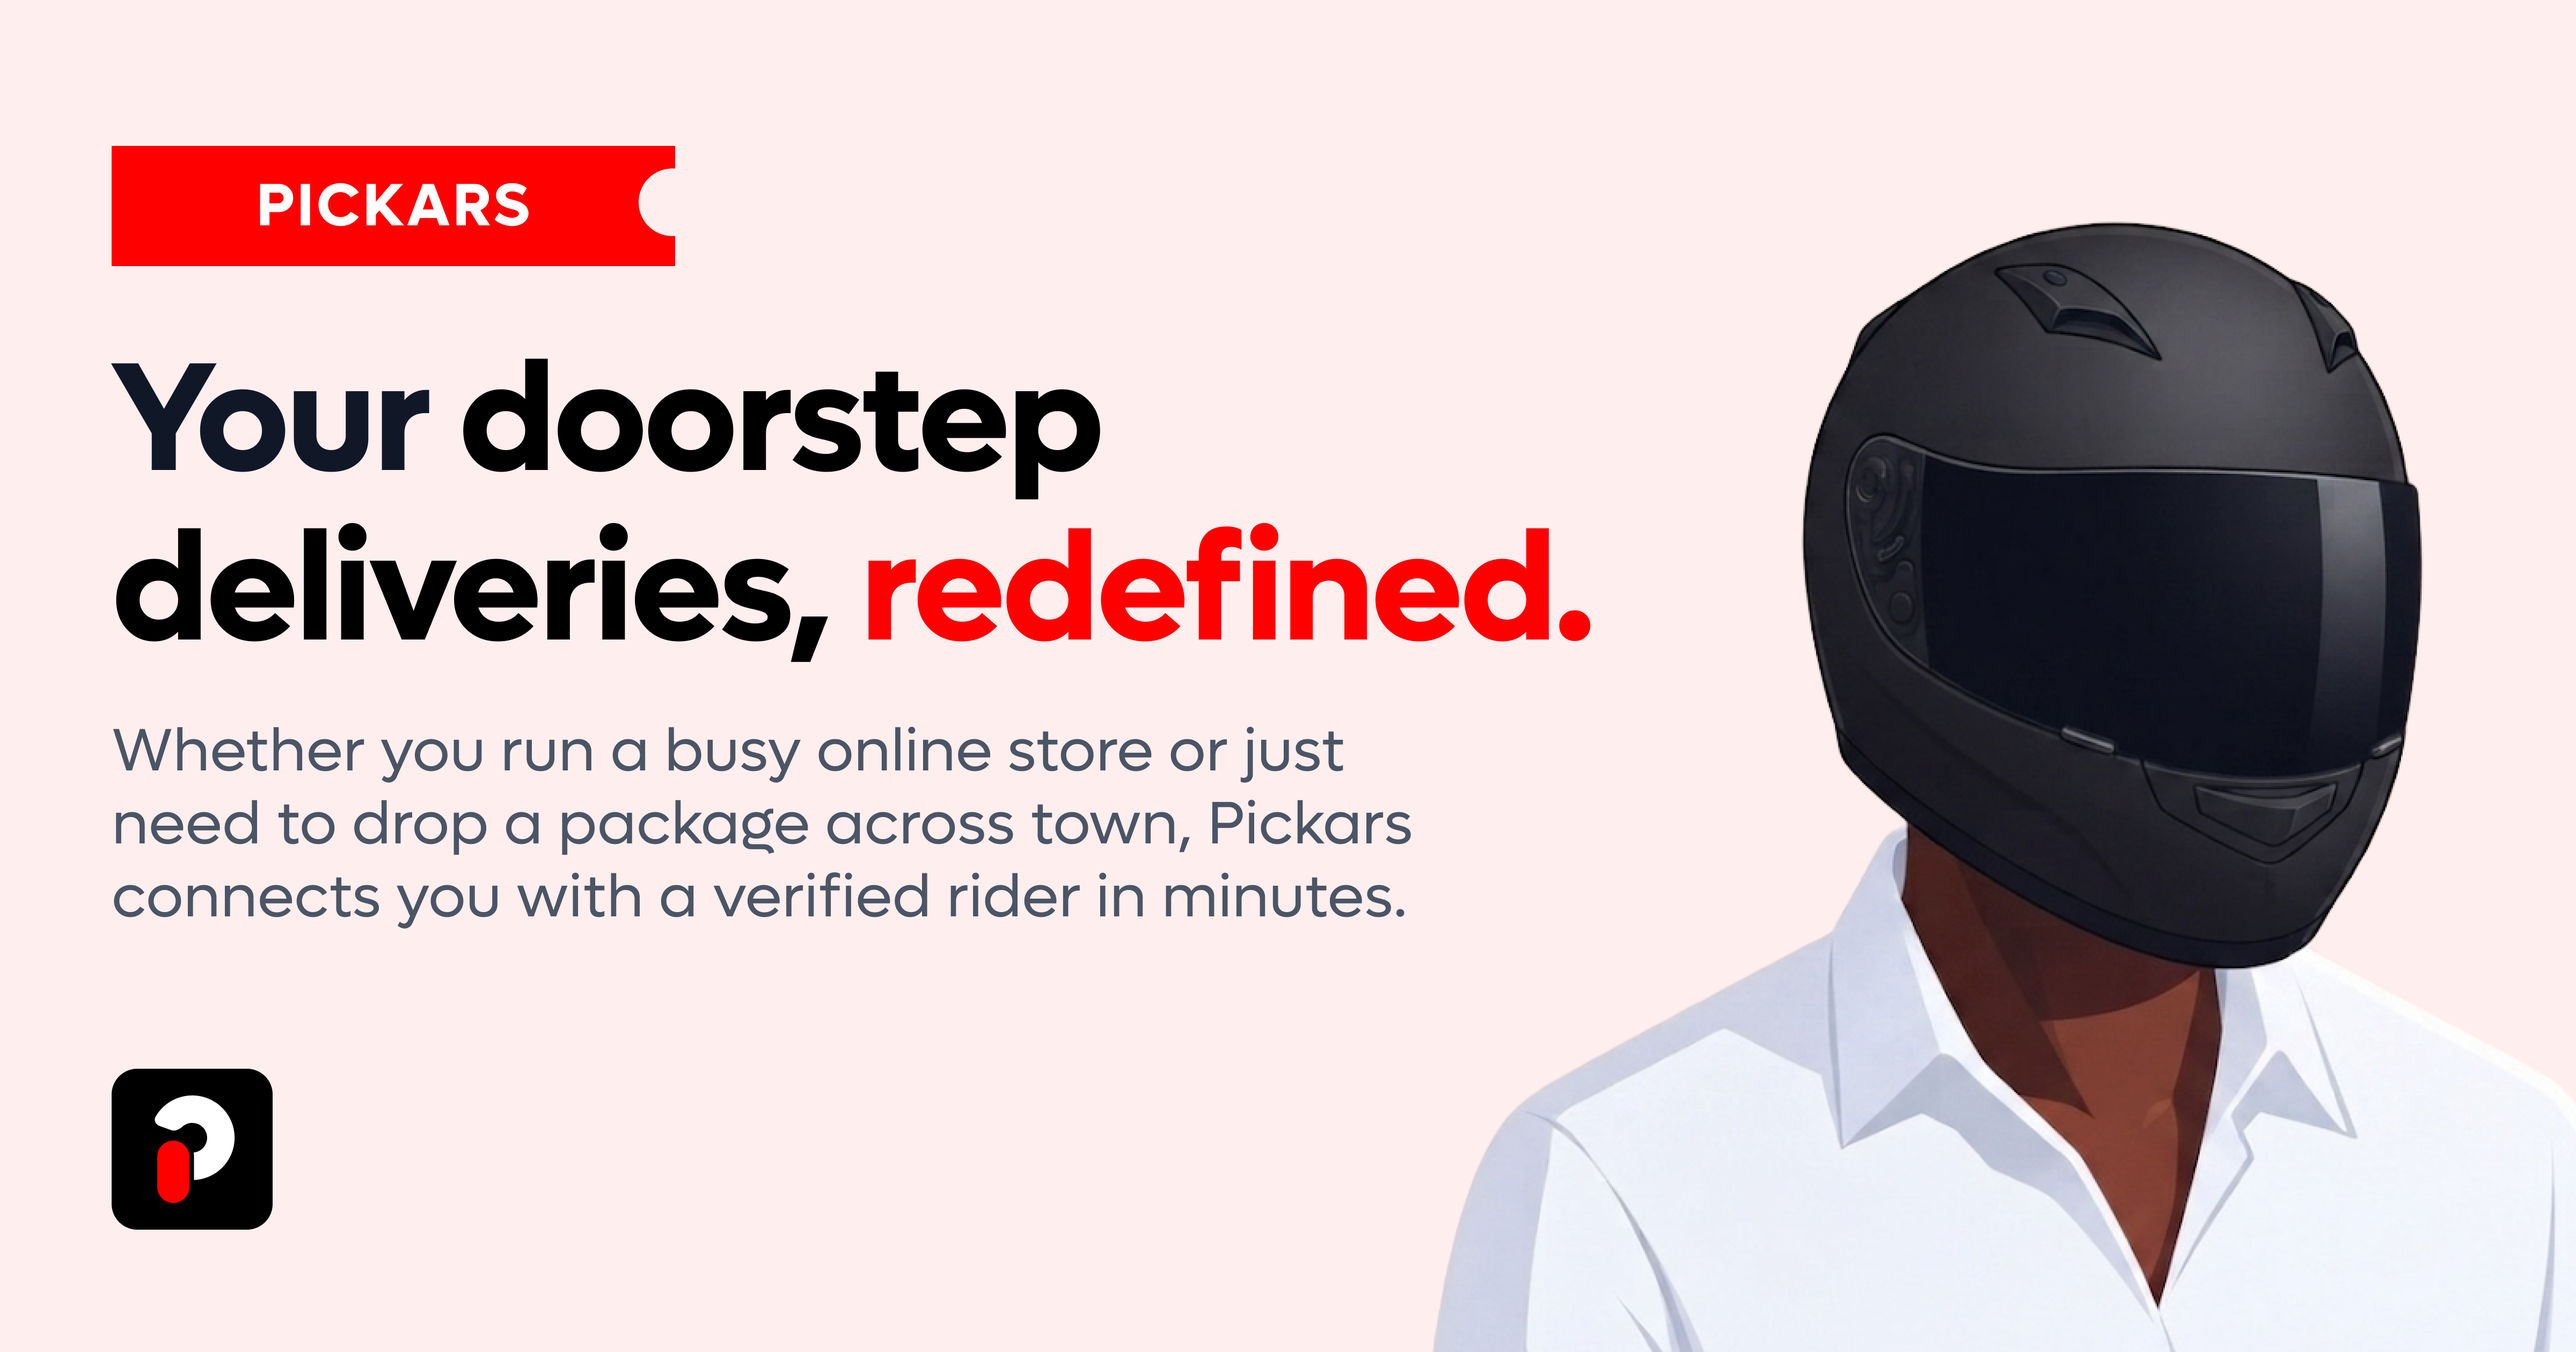
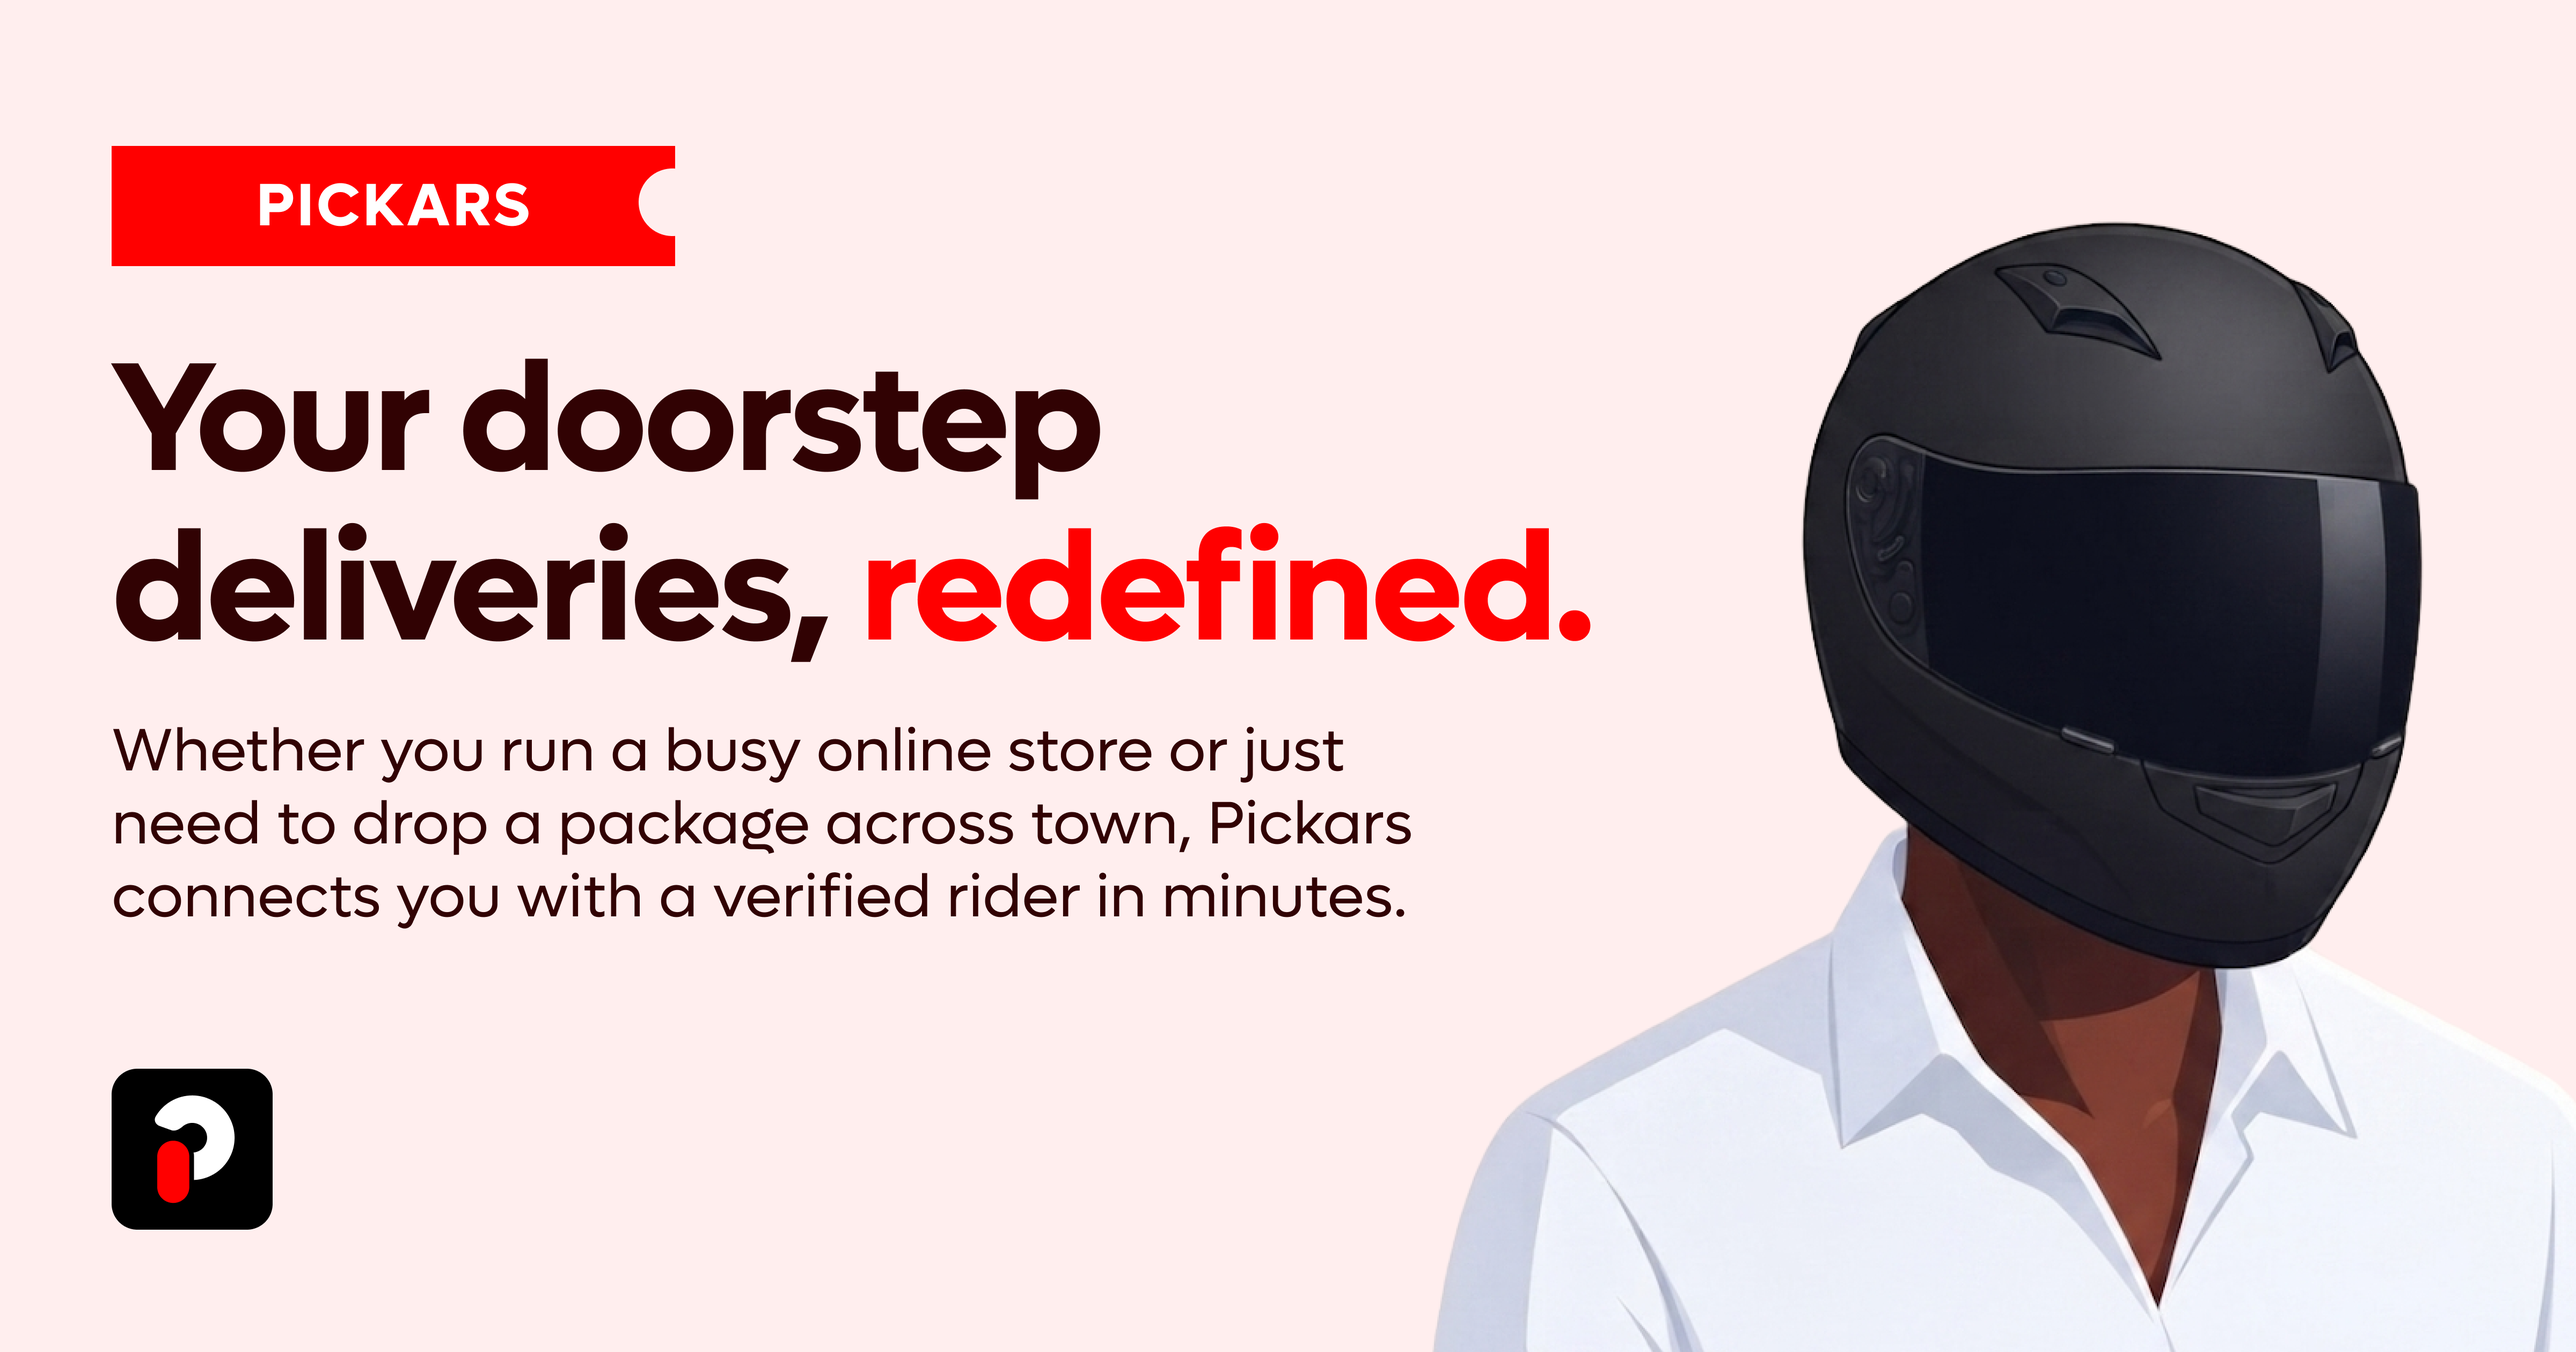
new updates

Changed region(s): [[0.0312, 0.2476, 0.4375, 0.4952], [0.0312, 0.5262, 0.5625, 0.681]]

diff --git a/src/assets/fonts/fonts.css b/src/assets/fonts/fonts.css
@@ -1,9 +1,7 @@
-/* src/assets/fonts/fonts.css */
-
 /* Light */
 @font-face {
     font-family: "Lufga";
-    src: url("./LufgaLight.ttf") format("truetype");
+    src: url("/fonts/LufgaLight.ttf") format("truetype");
     font-weight: 300;
     font-style: normal;
 }
@@ -11,7 +9,7 @@
 /* Regular */
 @font-face {
     font-family: "Lufga";
-    src: url("./LufgaRegular.ttf") format("truetype");
+    src: url("/fonts/LufgaRegular.ttf") format("truetype");
     font-weight: 400;
     font-style: normal;
 }
@@ -19,15 +17,15 @@
 /* Medium */
 @font-face {
     font-family: "Lufga";
-    src: url("./LufgaMedium.ttf") format("truetype");
+    src: url("/fonts/LufgaMedium.ttf") format("truetype");
     font-weight: 500;
     font-style: normal;
 }
 
-/* Semibold */
+/* Semibold - Capital 'B' matching LufgaSemiBold.ttf */
 @font-face {
     font-family: "Lufga";
-    src: url("./LufgaSemibold.ttf") format("truetype");
+    src: url("/fonts/LufgaSemiBold.ttf") format("truetype");
     font-weight: 600;
     font-style: normal;
 }
@@ -35,15 +33,15 @@
 /* Bold */
 @font-face {
     font-family: "Lufga";
-    src: url("./LufgaBold.ttf") format("truetype");
+    src: url("/fonts/LufgaBold.ttf") format("truetype");
     font-weight: 700;
     font-style: normal;
 }
 
-/* Extrabold */
+/* Extrabold - Capital 'B' matching LufgaExtraBold.ttf */
 @font-face {
     font-family: "Lufga";
-    src: url("./LufgaExtrabold.ttf") format("truetype");
+    src: url("/fonts/LufgaExtraBold.ttf") format("truetype");
     font-weight: 800;
     font-style: normal;
 }
